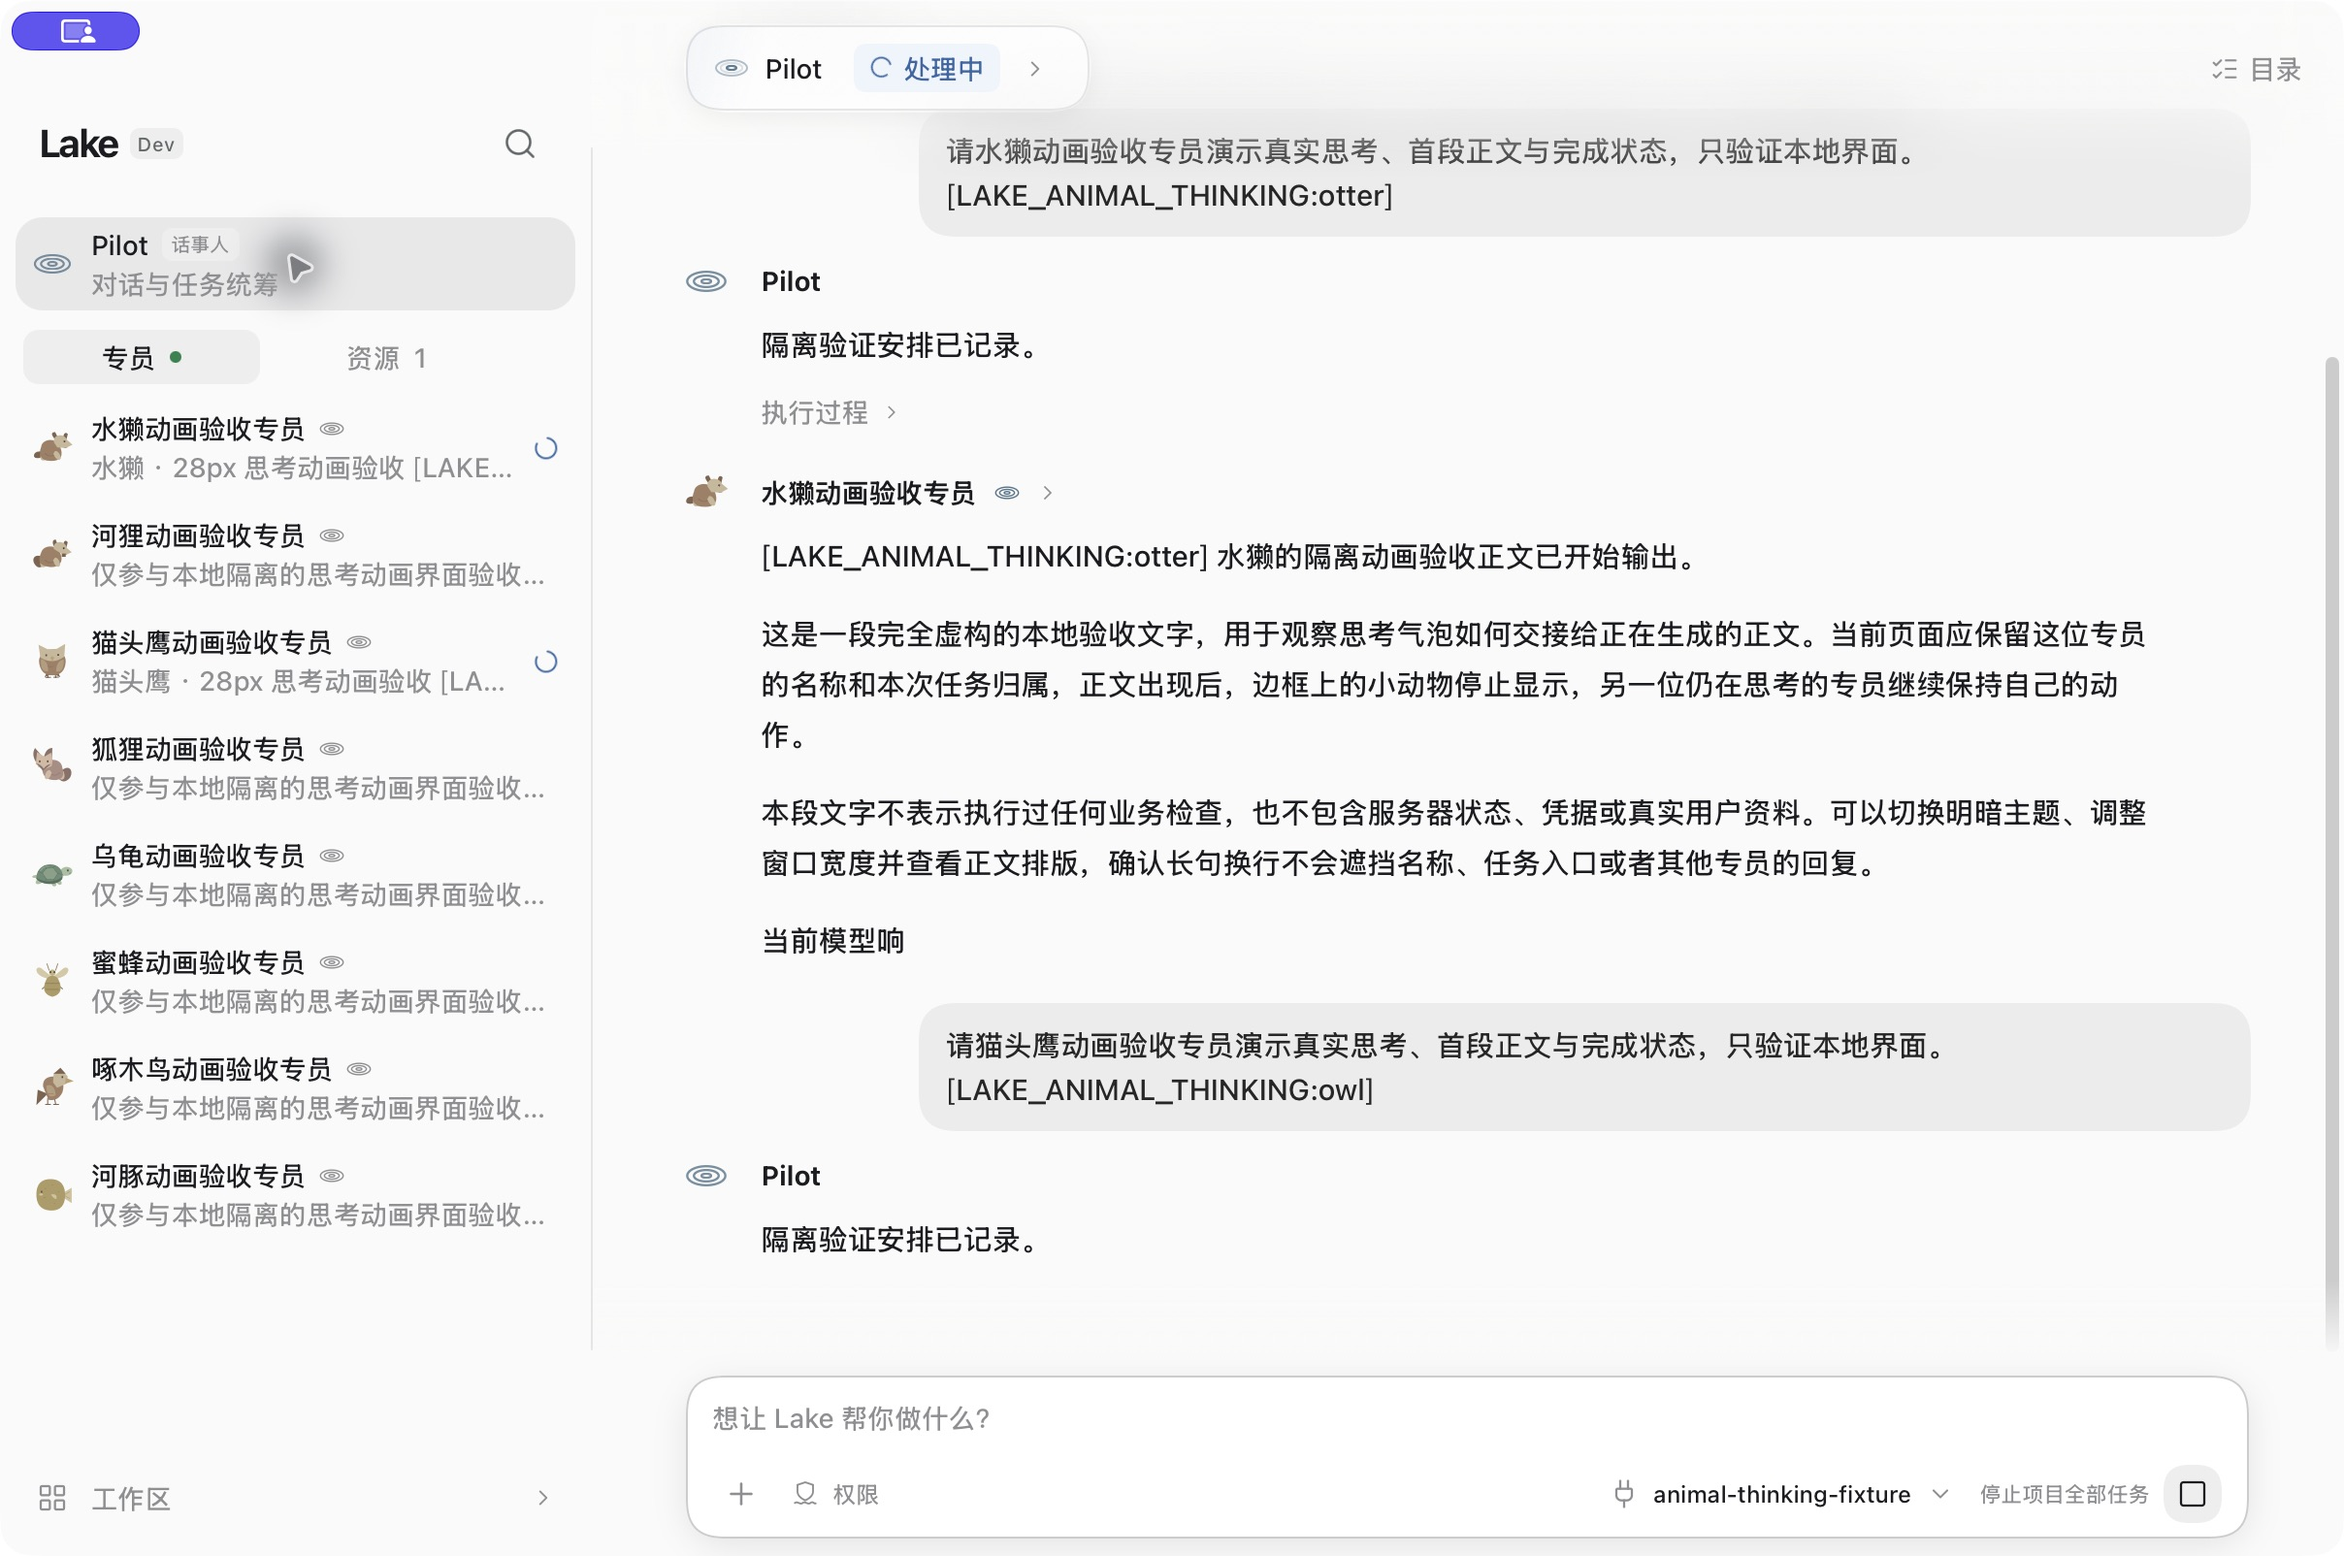
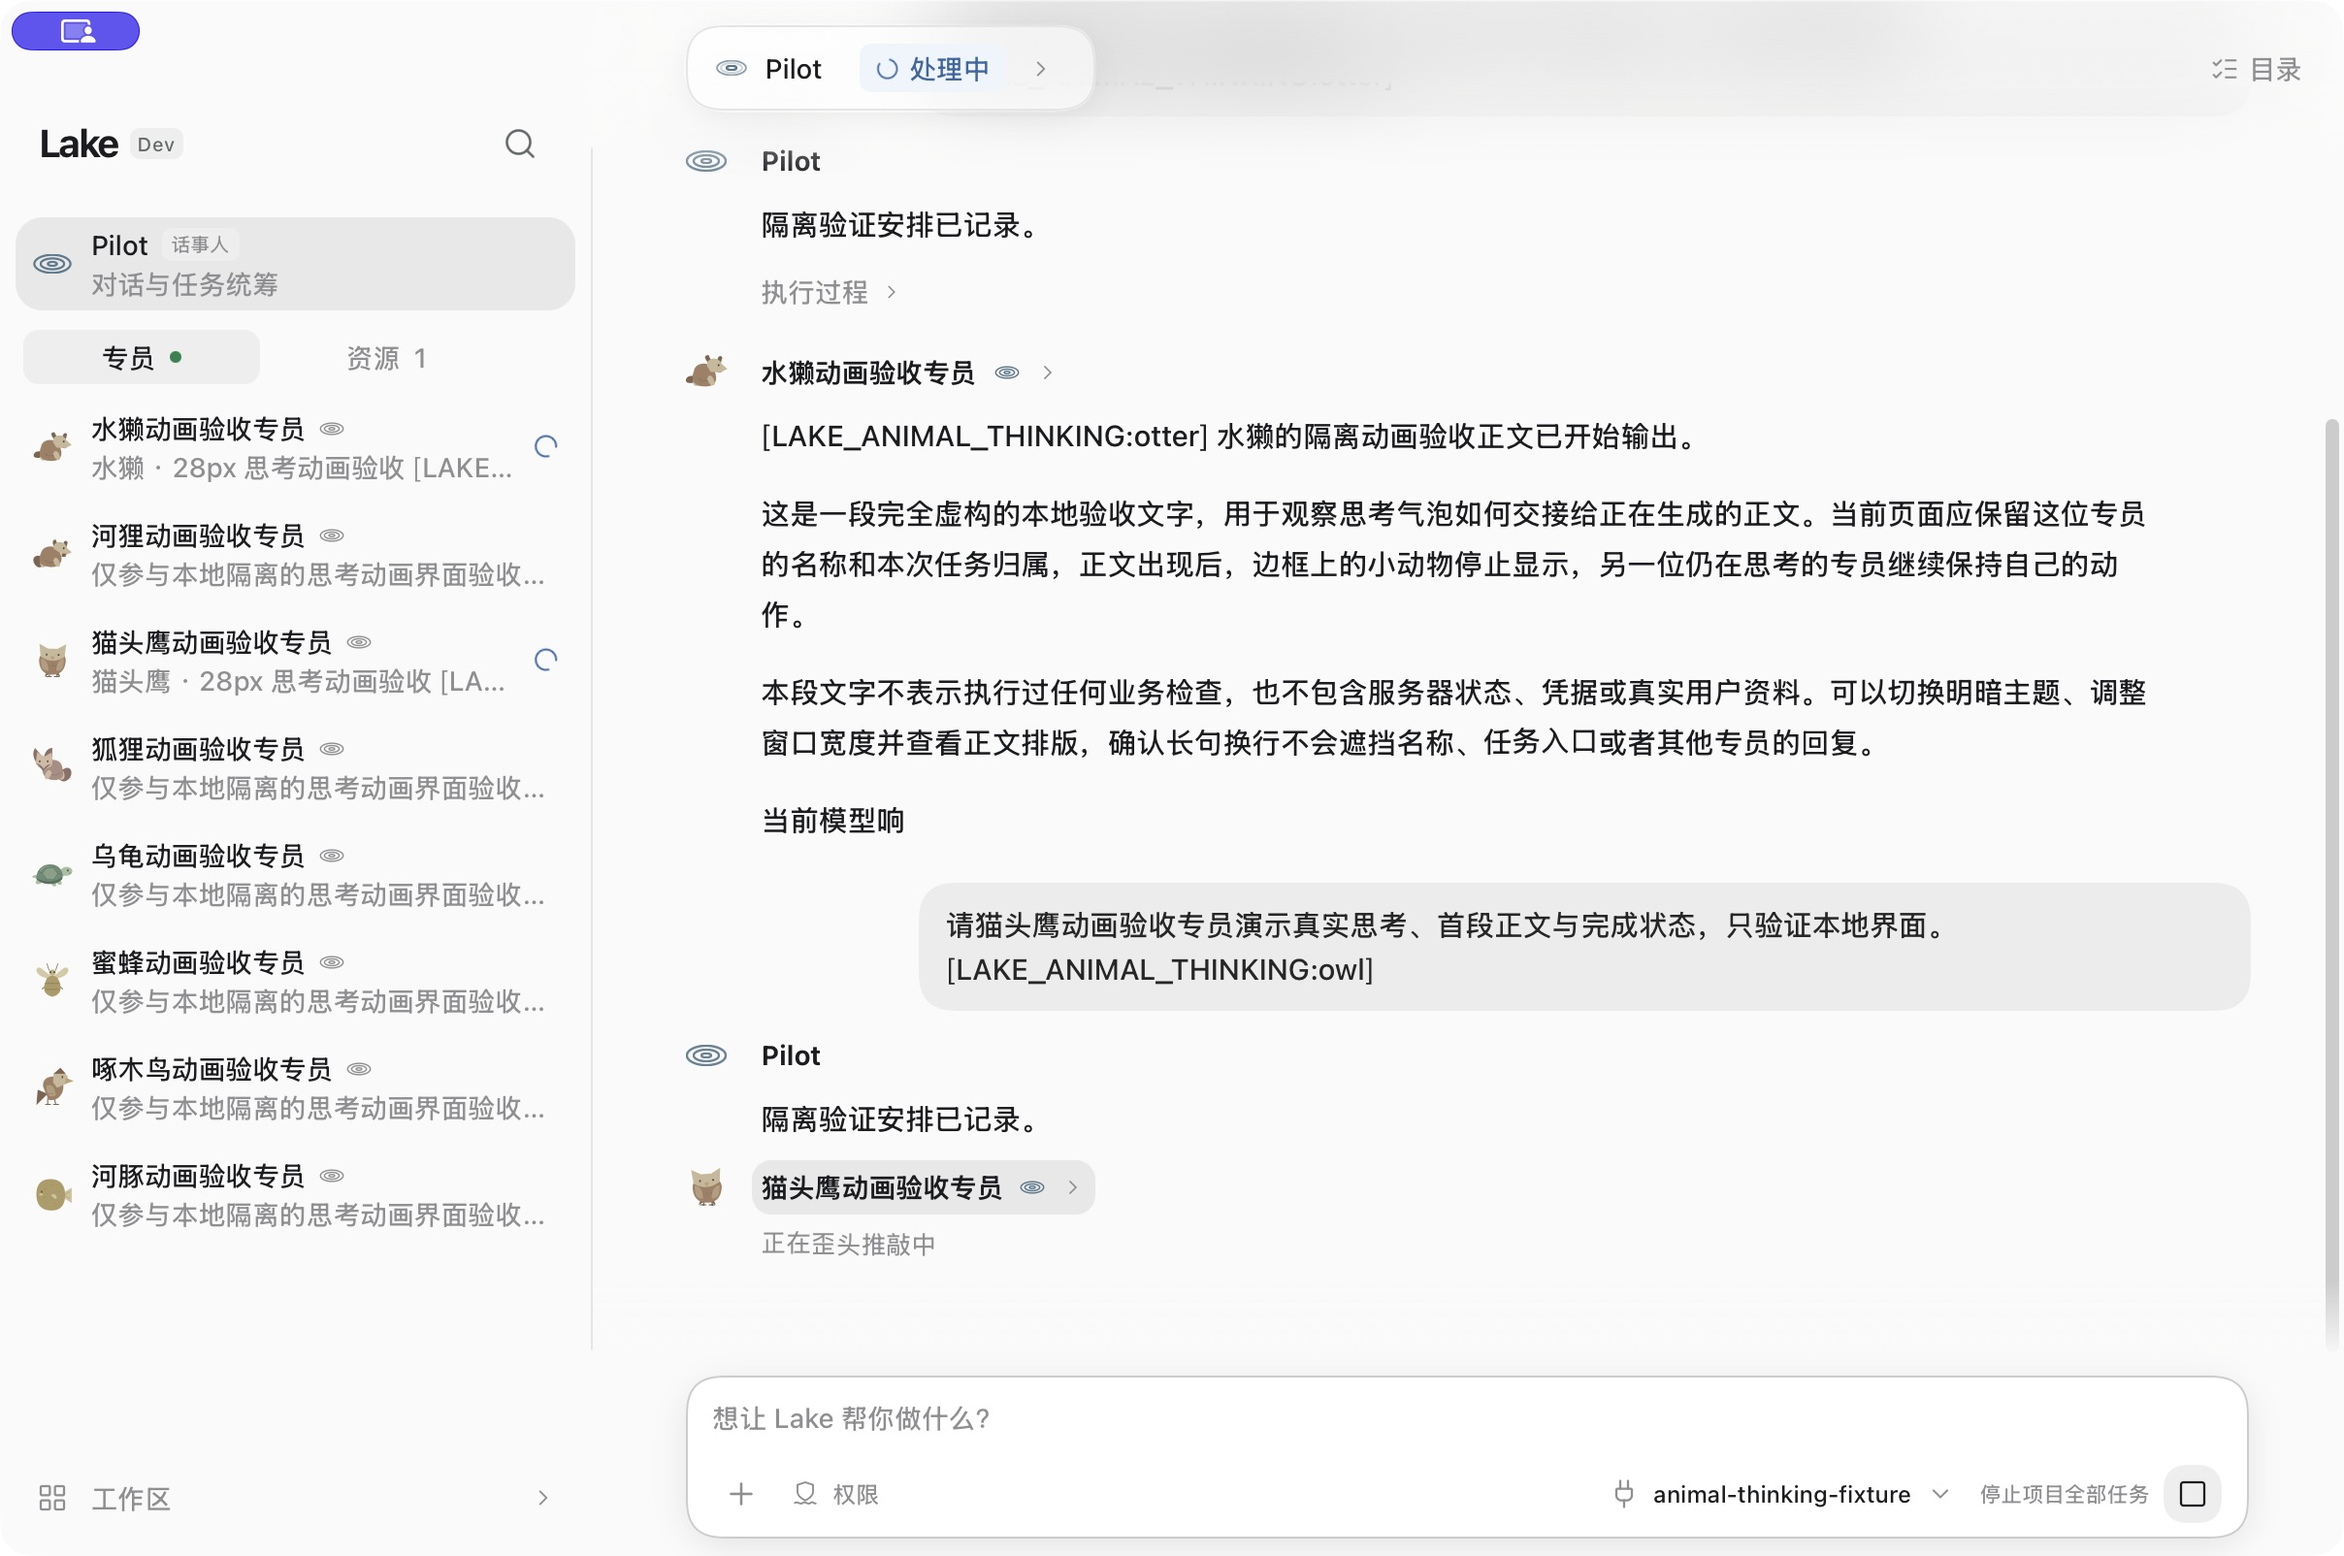
docs: verify frameless specialist thinking in Lake Dev

diff --git a/docs/validation/typescript-candidate/specialist-live-text-2026-11-16.md b/docs/validation/typescript-candidate/specialist-live-text-2026-11-16.md
@@ -1,63 +1,64 @@
-# Pilot 专员实际回复与文字跃动验证
+# Pilot 专员思考提示与文字跃动验证
 
-按用户最新两张截图反馈，移除 Pilot 对话内没有公开正文时的动物思考卡片。实际正文到达后保留原来的专员头像、名称、Agent 标识和进入专员的按钮；正在运行的正文末尾加入轻微文字跃动。
+专员尚未输出公开正文时，主会话保留普通头像、名称、Agent 标识和身份入口，下面显示动物专属思考文案并轻微逐字跃动。移除思考卡片外框与边框角色；真实正文到达后，在同一署名下原位接替，正文末尾沿用轻微跃动。
 
 ## 候选与范围
 
 - 开发基线：`88682744e8d5a1a336ae289cc98cbb59fcbb2bb3`（develop，含 PR #234）。
-- 实际测试与签名 Lake Dev 安装源码：`7f3138af131ca54f0a3ca642d75098997273696f`，构建来源 `dirty=false`。
-- 分支：`codex/specialist-live-text-motion`；普通 PR 目标 `develop`。
+- 最终测试与签名 Lake Dev 安装源码：`9f7019d24fd919a5008c472a71448af077dadb3b`，构建来源 `dirty=false`。
+- 分支：`codex/specialist-live-text-motion`；PR #235 目标 `develop`。
 - 平台：macOS Apple Silicon，Lake Dev 0.3.33 / TypeScript 后端；Chromium 补充明暗、390px 和动态效果状态验证。
-- 只改前端展示。隐藏占位时保留 Worker 订阅，未修改路由、任务执行、权限、持久数据或独立专员的动物思考气泡。
+- 只改前端展示，保留准确 Worker 订阅、任务/SDK root 绑定、权限和执行逻辑；独立专员页面原有动物气泡保持原行为。
 
 ## 行为与回归
 
-没有公开正文的纯思考阶段返回空内容，空容器不占 flex 间距；真实工具、排队、等待确认、断线和错误状态继续保留。实际正文到达后，最多 24 个可读字素在 4.2 秒周期内依次上移约 1px，并留出静止间隔。等待、断线、完成、隐藏页面和减少动态效果时恢复静止。
+侧栏显示运行中的专员，只有在真实思考阶段才使用对应动物文案；公开正文出现前仍能在其原始用户轮次看到署名和思考提示。工具、排队、等待确认、整理上下文、断线和结束状态保留各自真实语义，不能冒充思考。已收到正文或正式报告时不重复插入思考提示。
 
-正文只有一份可选择的文字，保留正常换行。链接、代码、表格、资源引用和已有装饰节点不拆分；emoji 与组合字符按字素保留。采用专属 Markdown 渲染节点，避免动效尾部移动导致相邻资源引用的 React key 改变和焦点丢失。
+文案与正文最多装饰末尾 24 个可读字素，在 4.2 秒周期内依次上移约 1px，并留出静止间隔。保持原过程文字和正文的各自字号、行距与换行；完成、等待、断线、隐藏页面和减少动态效果时停止运动。原文字只有一份，链接、代码、表格、资源引用和特殊装饰不拆分；emoji 与组合字符按字素保留。专属 Markdown 渲染节点避免动效尾部移动造成引用 React key 改变。
 
 | 验证 | 结果 |
 | --- | --- |
-| 固定 Node 24.14.0，`pnpm --dir web-agent test:frontend` | **867/867 通过** |
+| 固定 Node 24.14.0，`pnpm --dir web-agent test:frontend` | **870/870 通过** |
 | `pnpm --dir web-agent build:web`（含 TypeScript 检查） | 通过；既有大 chunk 提示仍存在 |
-| `python3 scripts/check_adk_runtime_boundary.py`、`python3 scripts/check_backend_naming.py` | 通过 |
+| ADK 边界与后端命名检查 | 本 PR 前序检查通过，本轮未改对应代码 |
 | `git diff --check` | 通过 |
-| 独立只读复核 | 引用 key 漂移问题已修复；相关测试 30/30、类型检查通过，无剩余阻塞问题 |
+| 独立只读复核 | 思考门控、身份稳定性、状态播报与动效停止规则通过；相关测试 33/33、类型检查通过，无阻塞问题 |
 
-新增与更新的回归覆盖：隐藏纯思考但保留真实状态、正文动效状态门控、SDK root 去重、静态 Markdown 不变、24 字素总预算、中文/英文/emoji/组合字符、稳定偏移 key、引用 React key、链接/代码/表格/复制内容，以及独立动物气泡不受影响。
+回归覆盖普通署名与无框思考、头像解析优先级、同名角色隔离、真实非思考状态、公开正文接替、SDK root 去重、可见性门控、纯文本文案、24 字素预算、Unicode 完整性、静态 Markdown、引用稳定 key、链接/代码/表格/复制及独立动物气泡。
 
-## 浏览器与已安装 Dev
+## 浏览器验证
 
-浏览器使用真实 `PilotSpecialistReplyView` fixture（`web-agent/web/test/fixtures/specialist-live-text.html`），没有后台业务调用：
+使用真实 `PilotSpecialistReplyView` fixture（`web-agent/web/test/fixtures/specialist-live-text.html`），没有业务调用：
 
-- 无正文时没有卡片，空 wrapper 为 `display:none`、高度 0。
-- 23 字样例有 23 个动态字素，40 帧采样测得最大上移约 `0.999997px`。追加后总量不超过 24；15 个重叠字素保留原 DOM 和 CSSAnimation 对象，无关快照更新也不重启动效。
-- 等待、断线、完成与 reduced motion 均为 0 个动画、字素回到基线。切换隐藏页记录到 `hidden:true / mode:still / animations:0`，返回后恢复活动。
-- 390px 深色长句和 Markdown 无横向溢出；链接地址、代码与表格不变，正文复制不重复。Enter 可进入正确的专员，追加正文不使身份入口失焦。
-- 浏览器检查后补充修复了引用 key 漂移，并用真实 react-markdown 元素树回归及独立复现验证；最终源码再次运行完整测试、构建和下述原生验证。
+- 无正文时显示普通署名与“正在独立凝神中”；1 个身份头、1 个状态播报区、边框为 0，没有动物卡片、水波或文字扫光。
+- 思考文案有 7 个动态字素，270 帧采样测得最大上移约 `0.999962px`。可见页面内触发无关快照更新，字素 DOM 与 CSSAnimation 对象均保持。
+- 正文到达后思考文字消失，正常正文出现；身份按钮仍是同一 DOM，键盘焦点保留。Enter 打开正确专员。
+- 无正文工具、无正文等待、断线和排队分别显示“正在检查资源”“等待确认”“进度暂未更新，正在重连”“排队中”，没有动物思考文案。
+- reduced motion 为 0 个文字动画且全部回到基线。隐藏页记录到 `hidden:true / mode:still / animations:0`，思考文字仍存在；返回后恢复 7 个文字动画。
+- 390px 深色思考布局无横向溢出，署名、入口和文案可读。
 
-签名构建与隔离原生验收命令：
+## 已安装 Lake Dev
 
 ```sh
 npm_config_offline=true scripts/build_lake_desktop.sh --dev --install
-node scripts/verify_animal_thinking_dev.cjs /tmp/lake-live-text-native.json
+node scripts/verify_animal_thinking_dev.cjs /tmp/lake-thinking-label-native.json
 ```
 
 构建前通过菜单停止空闲的日常 Dev 内核；使用完整本地依赖缓存，正常执行构建、来源检查和签名。验收脚本运行已安装的 `~/Applications/Lake Dev.app`，使用独立临时 Home/data 与确定性回环模型：
 
-1. 水獭和猫头鹰两个真实 Worker 保持思考时，Pilot 内不显示任何动物占位卡片或额外身份头；侧栏和顶部仍显示运行状态。
-2. 水獭收到公开正文后，正常头像/身份入口与正文出现，猫头鹰的纯思考占位仍隐藏。当前 Worker 快照确认 `replyStatus=running`、正文卡 `running`、公开正文 241 字符，见 [stream-check.json](specialist-live-text/stream-check.json)。
-3. 明暗主题正文均正常换行；点击身份入口进入准确的水獭专员页面，显示任务记录 1，返回 Pilot 后正文仍在。
-4. 完成两个 Worker 后，正式报告接替实时发言，顶部显示已结束，没有思考卡片残留。
-5. 恢复跟随系统主题，结束 fixture 并停止其独立后端；重新启动日常 Dev，恢复原项目、原 Pilot 会话与模型。临时 Vite 已停止。
+1. 水獭与猫头鹰两个真实 Worker 同时运行时，主会话各自显示普通署名与“正在搓爪琢磨中”“正在歪头推敲中”，没有思考卡片外框和边框角色。
+2. 水獭收到公开正文后，其思考文案被实际文字接替；猫头鹰仍保留独立的思考文案，与侧栏运行标记一致。快照确认水獭为 `running`、公开正文 241 字符且卡片 root 匹配；猫头鹰同为 `running` 且公开正文为 0，见 [stream-check.json](specialist-live-text/stream-check.json)。
+3. 明暗主题均正确显示正文与另一位思考提示；点击猫头鹰身份入口进入准确专员页面，任务记录为 1。
+4. 两个 Worker 完成后，Pilot 显示正式报告与已结束状态，思考文案不残留。
+5. 恢复跟随系统主题，结束 fixture 并停止对应独立后端；重新启动日常 Dev，恢复原项目、Pilot 会话与模型。临时 Vite 已停止。
 
 ## 画面
 
-- [原生纯思考无占位](specialist-live-text/native-hidden.png)
-- [原生实际正文](specialist-live-text/native-stream.png)
-- [原生深色正文](specialist-live-text/native-dark.png)
-- [原生完成状态](specialist-live-text/native-complete.png)
-- [浏览器身份入口焦点](specialist-live-text/fixture-light.png)
-- [390px 深色 Markdown](specialist-live-text/fixture-dark-390.png)
+- [两位专员在主会话思考](specialist-live-text/native-thinking.png)
+- [一位输出、另一位继续思考](specialist-live-text/native-stream.png)
+- [深色正文与思考提示](specialist-live-text/native-dark.png)
+- [完成后正式回复](specialist-live-text/native-complete.png)
+- [浅色无框思考](specialist-live-text/fixture-light.png)
+- [390px 深色无框思考](specialist-live-text/fixture-dark-390.png)
 
-Windows/Linux 原生客户端未运行；原生验收使用虚构文本，不代表真实业务资源验收。无数据库迁移，可经回退 PR 撤销前端改动。此验证不授权新 PR 合并或生产发布。
+Windows/Linux 原生客户端未运行；原生验收使用虚构文本，不代表真实业务资源验收。无数据库迁移，可经回退 PR 撤销前端改动。此验证不授权 PR 合并或生产发布。
